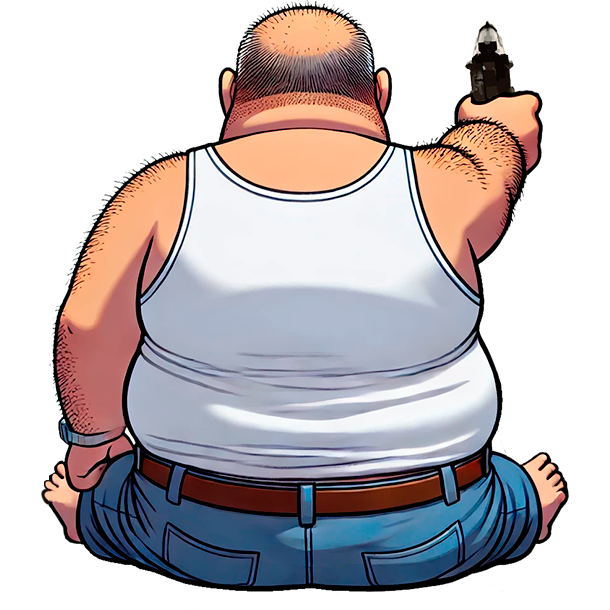
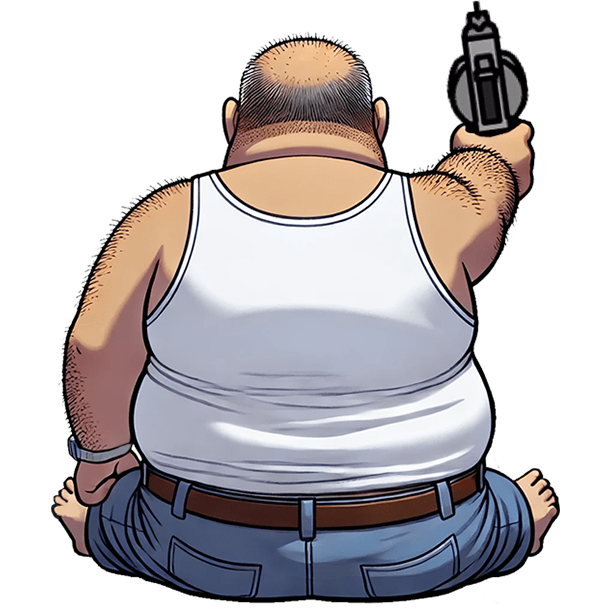
updated fatty character

diff --git a/src/components/character.tsx b/src/components/character.tsx
@@ -111,7 +111,7 @@ const Character = React.forwardRef<HTMLDivElement, CharacterProps>(
               'absolute z-1 aspect-[1/1.7]',
               characterName === 'nubcat' && 'right-[6%] w-[20%]',
               characterName === 'mickey' && 'top-[17%] right-[22%] w-[10%]',
-              characterName === 'fatty' && 'right-[15%] w-[10%]',
+              characterName === 'fatty' && 'right-[16%] w-[10%] -rotate-20',
               characterName === 'anime-1' && 'top-[20%] left-[29%] w-[7%]',
               characterName === 'anime-2' && 'top-[17%] right-[34%] w-[7%]',
             )}
